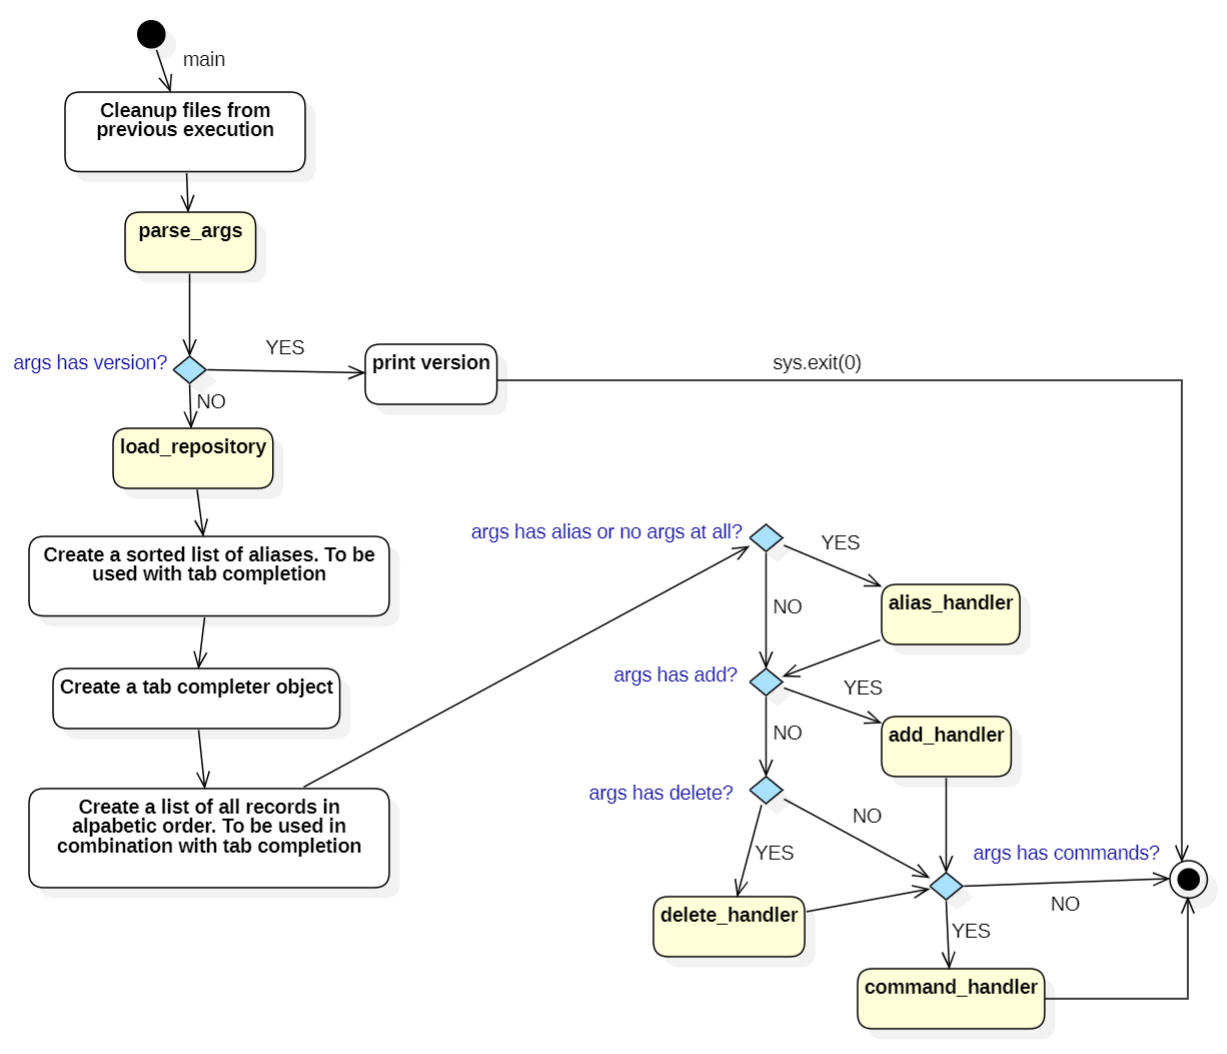
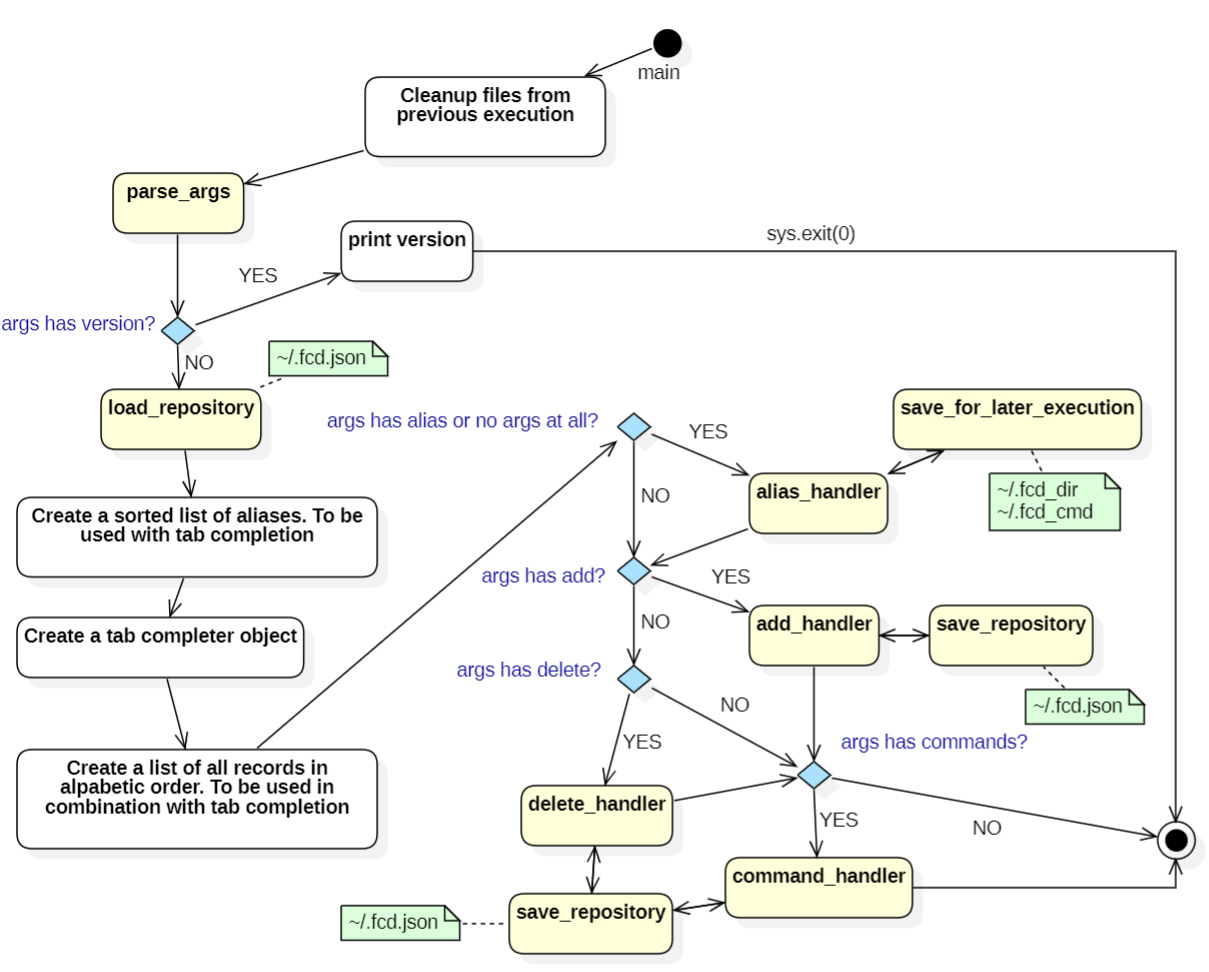
update

diff --git a/docs/README.md b/docs/README.md
@@ -44,13 +44,12 @@ can be just the beginning of an alias and with TAB completion the rest can
 easily be filled in by the function. It will loop until a valid alias is
 found in the repository or you abort the program with Ctrl-C.
 
-When an alias is found alias_handler will call a separate function:
+When an alias is found alias_handler will call `save_for_later_execution`.
+See next function description below and finally return back to main.
 
-```python
-def save_for_later_execution(repository, alias):
-```
+## save_for_later_execution
 
-which will create a file, `~/.fcd_dir` inserting the directory path associated
+Will create a file, `~/.fcd_dir` inserting the directory path associated
 with the alias. As an example if we refer to the repository example above and
 the alias **dl** is provided the content of the file would be:
 
@@ -65,10 +64,38 @@ command `ll` as this is not empty and the content would be:
 ll
 ```
 
-If any of these two files exists after execution, and this program `fcd.py`
-is called from the external bash script `fcd.sh`, they will be sourced and
-change the directory in the parent shell and execute the command provided.
+Finally returns back to `alias_handler`
+
+> **_NOTE:_** If any of these two files exists after execution, and this
+> program `fcd.py` is called from the external bash script `fcd.sh`, they
+> will be sourced and change the directory in the parent shell and execute
+> the command *(if provided)*.
 
 ## add_handler
 
+If `-a <alias>` or `--add <alias>` is provided on the command line this
+function will be called. If the alias is omitted on command line this
+will be caught by `parse_args` as add requires a mandatory additional
+field, and program will exit with an error message.
+
+This function will just do a simple check that the alias is not already
+present in the repository, if not it will take the **current working
+directory (cwd)** and add it to the repository, save it to file as
+described in `save_repository` below and finally return back to main.
+
+> **_NOTE:_** There is no check if the current directory already
+> exists associated with another alias, that is completely ok and
+> possibly even wanted sometimes.
+
+## save_repository
+
 TBD
+
+## delete_handler
+
+TBD
+
+## command_handler
+
+TBD
+
